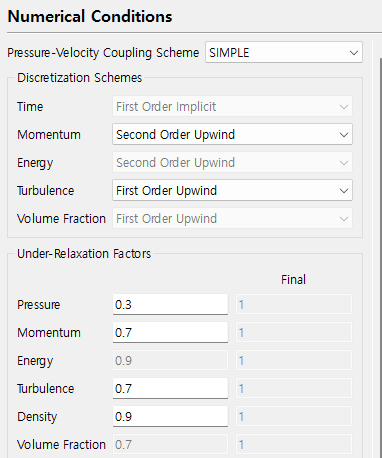
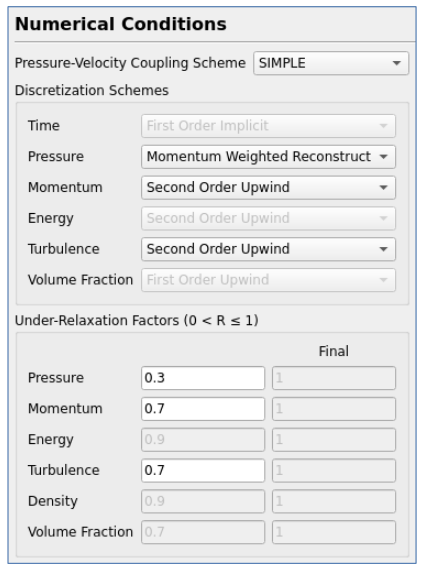
bykim manual

Changed region(s): [[0.0, 0.0, 1.0, 1.0], [0.7199, 0.5808, 0.8351, 0.6419]]

diff --git a/_posts/tutorials/2023-09-05-AhmedBody-post.md b/_posts/tutorials/2023-09-05-AhmedBody-post.md
@@ -19,6 +19,8 @@ S.R. Ahmed는 단순화된 자동차 모형을 이용해 후방 경사각에 따
 
 ref : _S.R. Ahmed, G. Ramm, Some Salient Features of the Time-Averaged Ground Vehicle Wake, SAE-Paper 840300, 1984_
 
+논문의 실험 결과 저항계수(Cd)는 0.285이며 계산 결과는 Cd = 0.287로 0.7%의 차이를 보여준다.
+
 계산 조건은 다음과 같다.
 
 + solver : buoyantSimpleNFoam (넥스트폼이 개발한 정상상태 비압축성 해석 솔버)
@@ -107,11 +109,9 @@ ref : _S.R. Ahmed, G. Ramm, Some Salient Features of the Time-Averaged Ground Ve
 
 + minz, maxz, maxy : symmetry
 
-## 8. Monitoring
+## 8. Reference Values
 
-본 예제에서는 자동차에 걸리는 공력 계수를 모니터링한다.
-
-Reference Values에 아래와 같이 입력한다.
+공력계수 계산을 위한 Reference Value를 다음과 같이 설정한다.
 
 + Area : 0.056(유동 방향에 수직한 단면적의 50%)
 + Density : 1.2
@@ -123,12 +123,6 @@ Reference Values에 아래와 같이 입력한다.
     <img src="https://github.com/nextfoam/baram-pages/raw/main/screenshots/ahmedBody/2.8.png"><br>
 </p>
 
-이후 Monitors - Add - Forces를 선택하여 아래 그림과 같이 설정한다.
-
-<p align='center'>
-    <img src="https://github.com/nextfoam/baram-pages/raw/main/screenshots/ahmedBody/2.9.png"><br>
-</p>
-
 ## 9. Numerical Conditions
 
 본 예제에서는 아래와 같이 설정을 변경한다.
@@ -136,8 +130,9 @@ Reference Values에 아래와 같이 입력한다.
 + Pressure-Velocity Coupling Scheme : SIMPLE
 
 + Discretization Scheme
+    + Pressure : Momentum Weighted Reconstruct
     + Momentum : Second Order Upwind
-    + Turbulence : First Order Upwind
+    + Turbulence : Second Order Upwind
 
 + Under-Relaxation Factors
     + Pressure : 0.3
@@ -154,11 +149,18 @@ Reference Values에 아래와 같이 입력한다.
     <img src="https://github.com/nextfoam/baram-pages/raw/main/screenshots/ahmedBody/2.10.1.png"><br>
 </p>
 
+
+## 10. Monitoring
+
+본 예제에서는 자동차에 걸리는 공력 계수를 모니터링한다.
+
+Monitors - Add - Forces를 선택하여 아래 그림과 같이 설정한다.
+
 <p align='center'>
-    <img src="https://github.com/nextfoam/baram-pages/raw/main/screenshots/ahmedBody/2.10.2.png"><br>
+    <img src="https://github.com/nextfoam/baram-pages/raw/main/screenshots/ahmedBody/2.9.png"><br>
 </p>
 
-## 10. Initialization
+## 11. Initialization
 
 다음 값으로 Initial 값을 설정한다.
 
@@ -181,7 +183,7 @@ Reference Values에 아래와 같이 입력한다.
 
 값을 입력하고 하단에 Initialize 버튼을 클릭한다. 그 후, File - Save 버튼을 클릭하여 case 파일을 저장한다.
 
-## 11. Run
+## 12. Run
 
 Run Conditions에서 다음과 같이 설정 후 계산을 진행한다.
 
@@ -205,14 +207,11 @@ Run Conditions에서 다음과 같이 설정 후 계산을 진행한다.
 계산이 완료되면 아래와 같이 Residuals과 Force monitor의 그래프를 확인할 수 있다.
 
 <p align='center'>
-    <img src="https://github.com/nextfoam/baram-pages/raw/main/screenshots/ahmedBody/2.13.png"><br>
+    <img src="https://github.com/nextfoam/baram-pages/raw/main/screenshots/ahmedBody/residual.png"><br>
 </p>
 
-<p align='center'>
-    <img src="https://github.com/nextfoam/baram-pages/raw/main/screenshots/ahmedBody/2.14.png"><br>
-</p>
 
-## 12. 후처리
+## 13. 후처리
 
 ### 경계면 스칼라 분포
 
